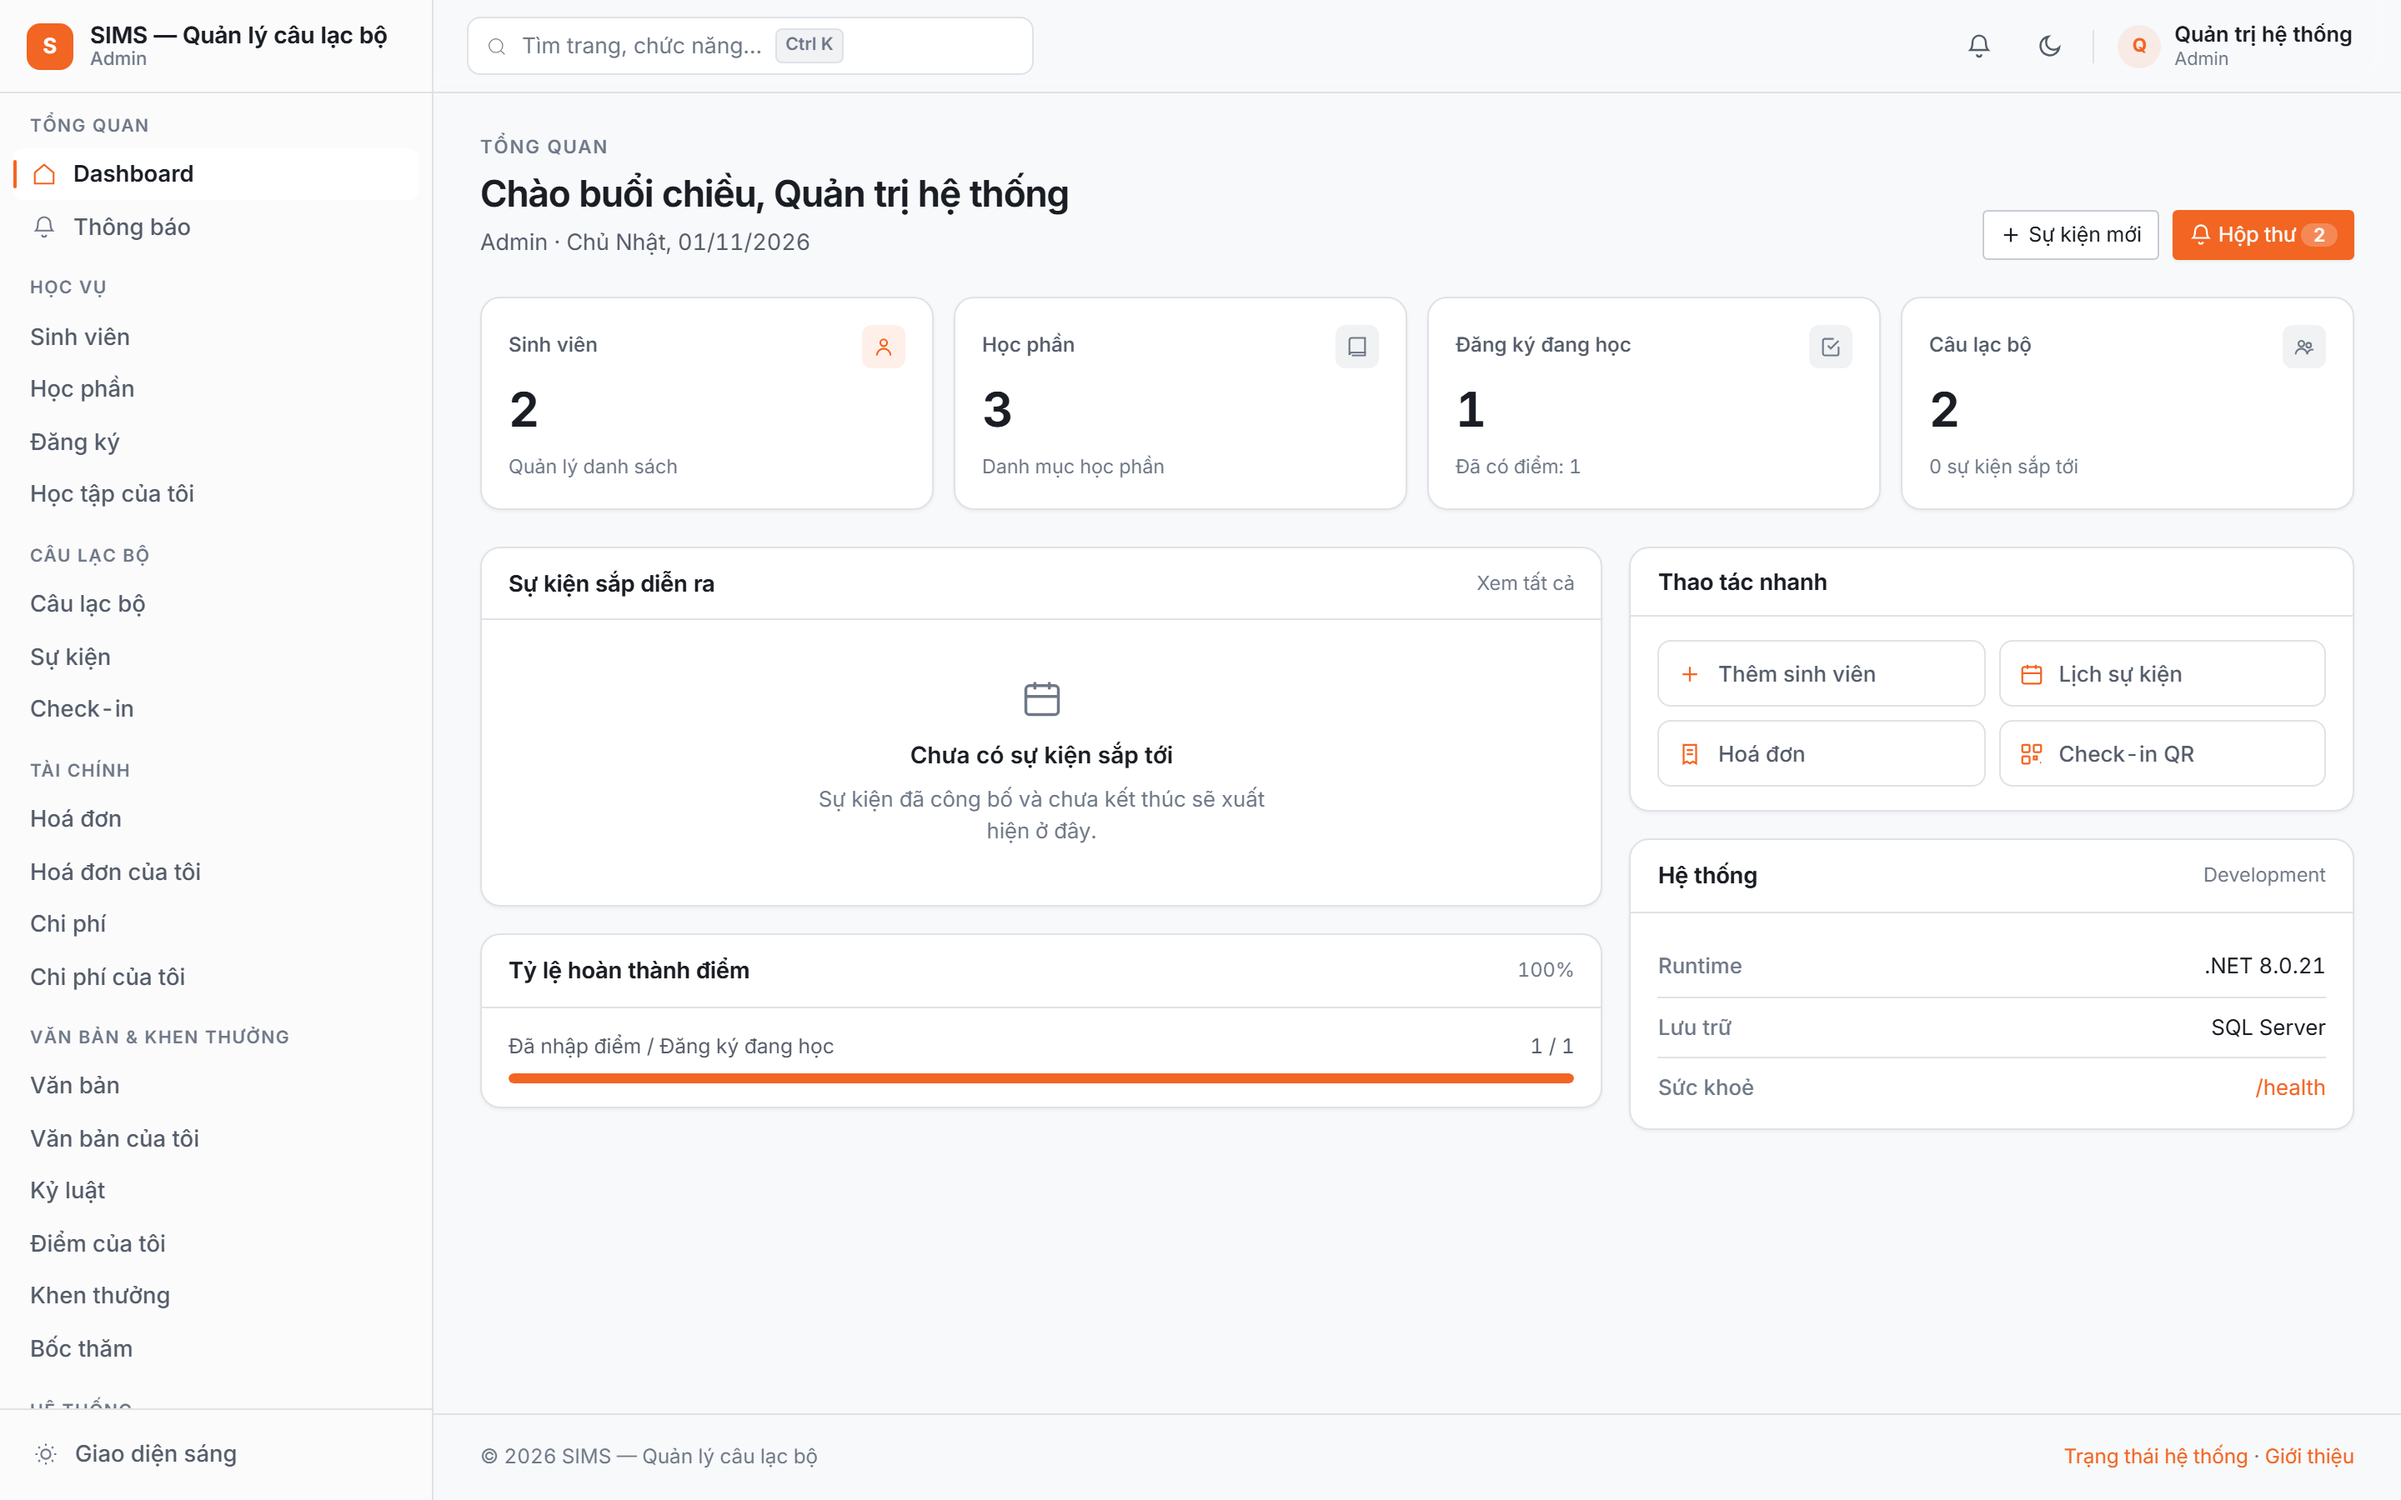
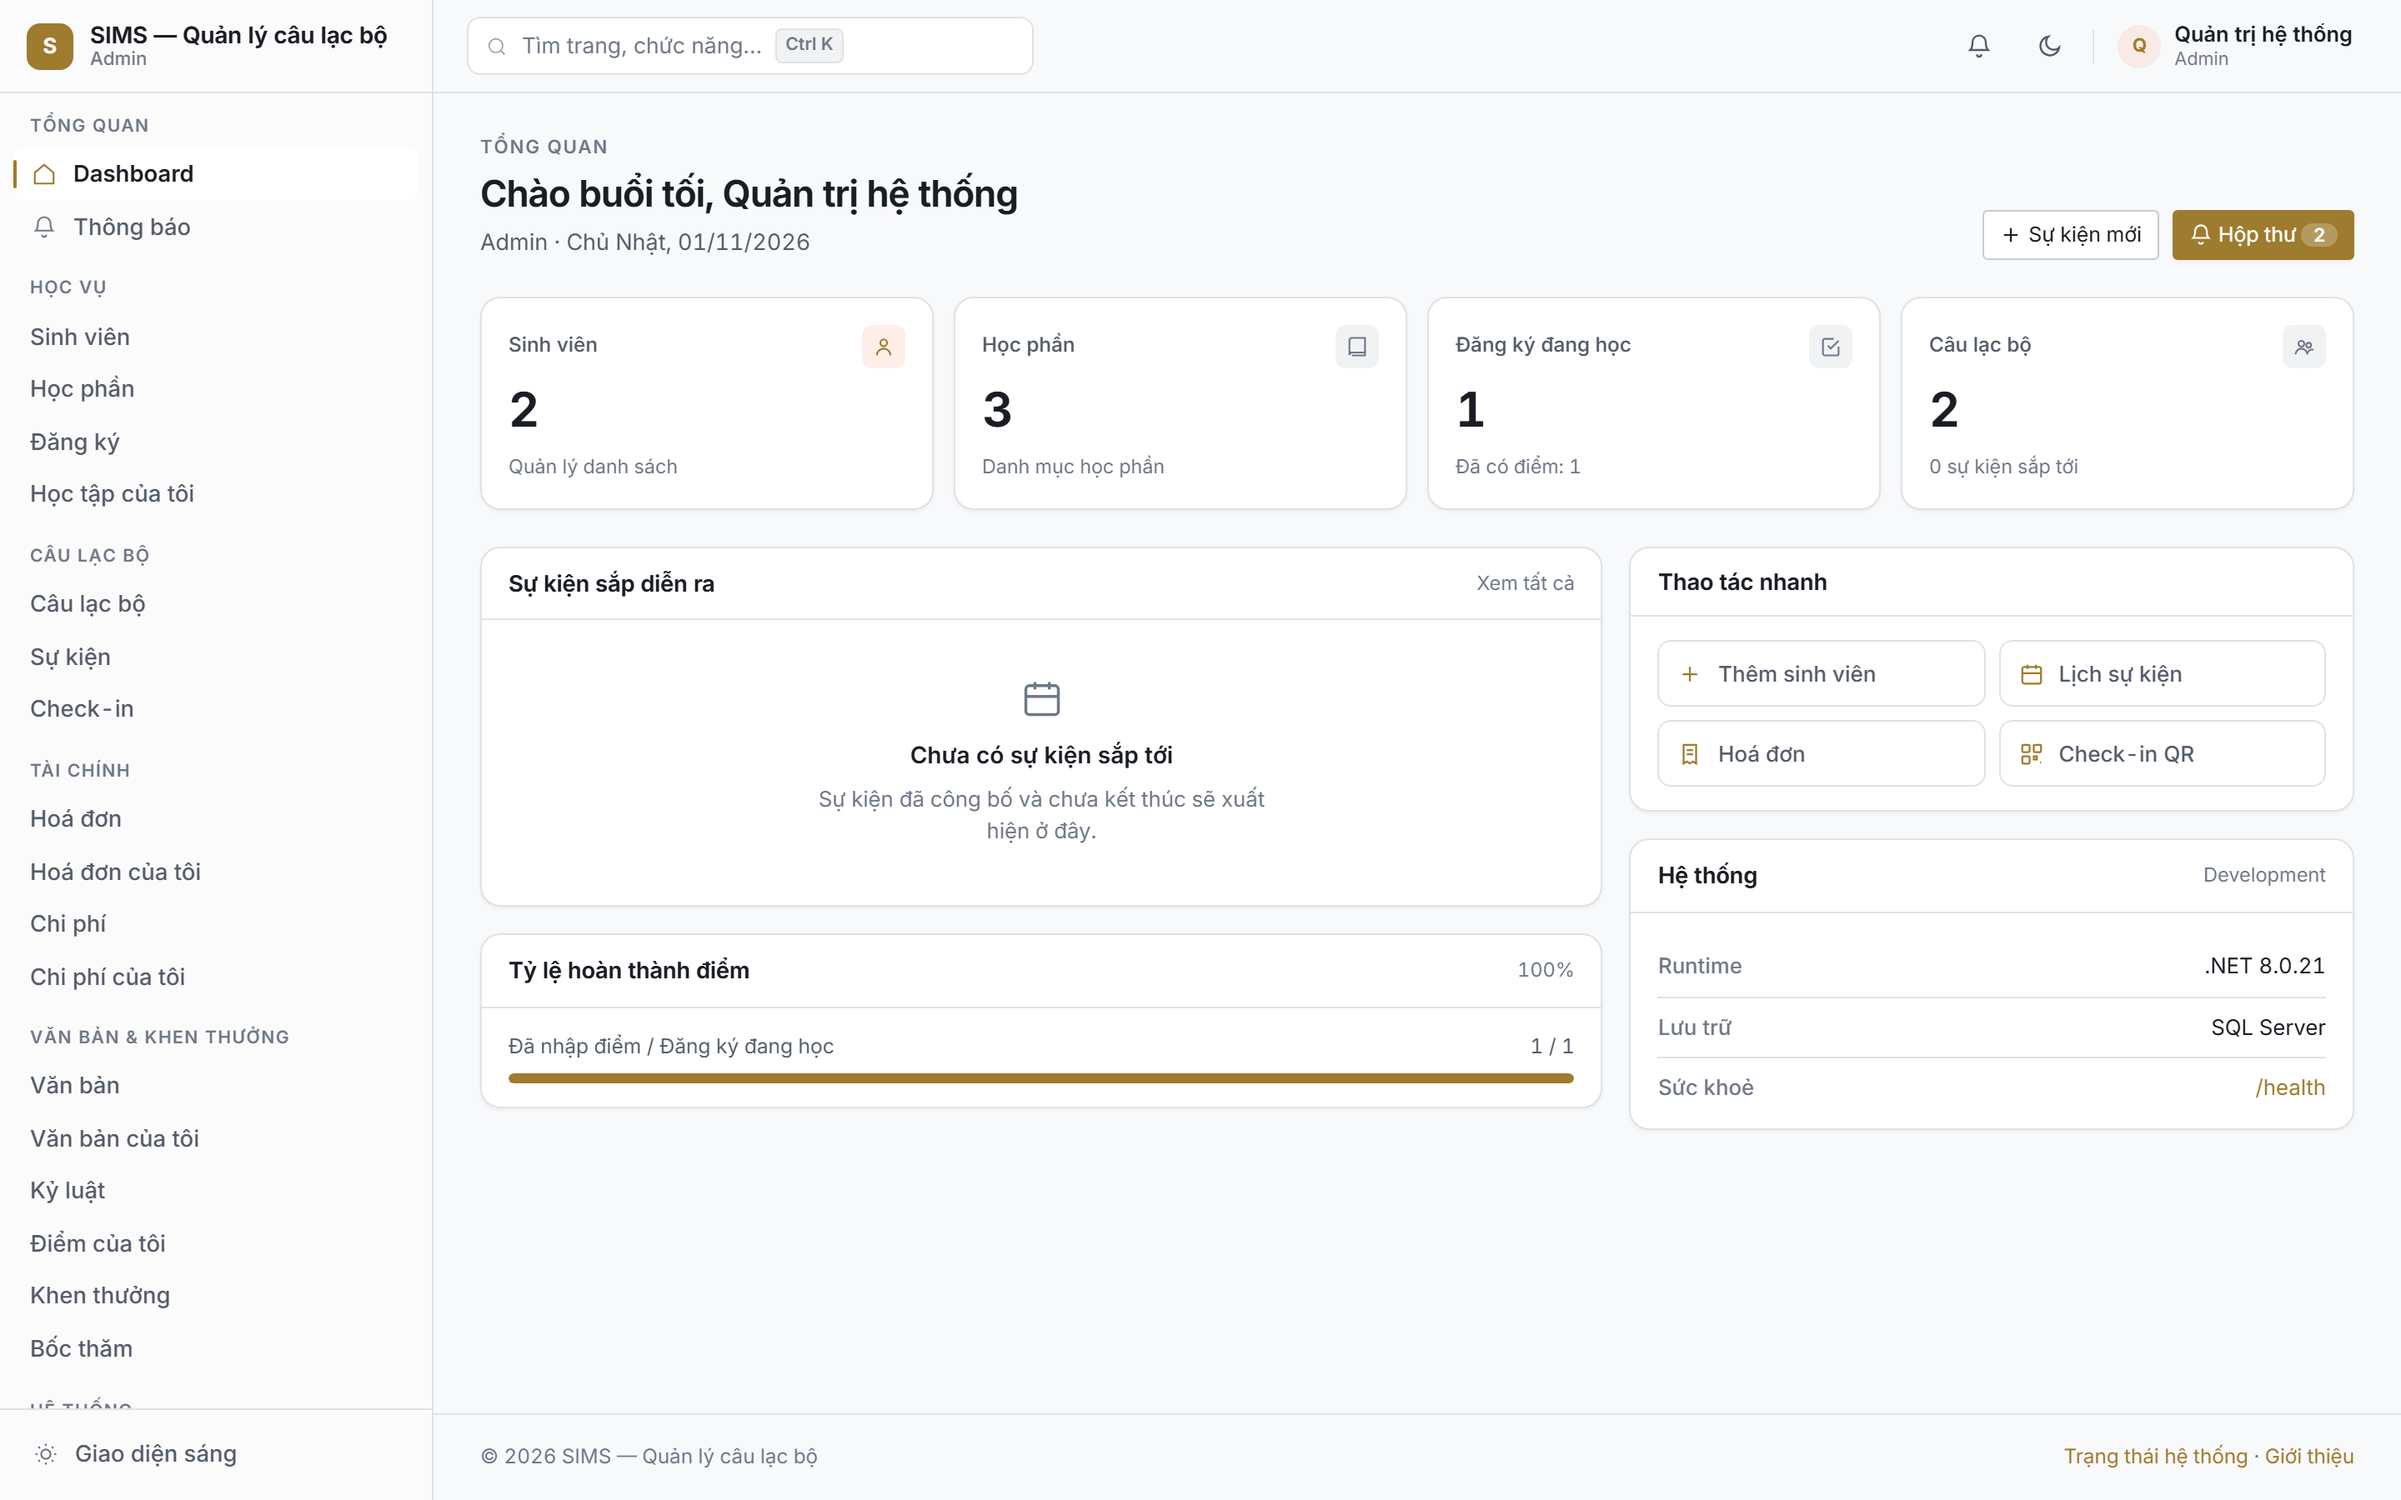
chore: doi ten database sang SIMS_APDP (tranh trung DB SIMS cua du an khac tren LocalDB)
- appsettings.json + SqlRowStoreTests: ConnectionString -> Database=SIMS_APDP
- README/porting-notes/test-results: cap nhat ten DB + ly do doi, kem bang chung
- preview-8080-dashboard.png: chup lai sau khi doi ten (van 200/405 test)

diff --git a/tests/SIMS.Tests/Infrastructure/SqlRowStoreTests.cs b/tests/SIMS.Tests/Infrastructure/SqlRowStoreTests.cs
@@ -10,7 +10,7 @@ namespace SIMS.Tests.Infrastructure;
 public sealed class SqlRowStoreTests
 {
     private const string DefaultConnection =
-        "Server=localhost;Database=SIMS;Integrated Security=True;TrustServerCertificate=True;Encrypt=False";
+        "Server=localhost;Database=SIMS_APDP;Integrated Security=True;TrustServerCertificate=True;Encrypt=False";
 
     private static string ConnectionString
         => Environment.GetEnvironmentVariable("SIMS_SQL_CONNECTION") ?? DefaultConnection;

diff --git a/README.md b/README.md
@@ -41,7 +41,7 @@ Dữ liệu nghiệp vụ nằm trong SQL Server; CSV chỉ còn là chế độ
 ```jsonc
 "Storage": {
   "Provider": "SqlServer",                       // hoặc "Csv" để quay lại file CSV
-  "ConnectionString": "Server=localhost;Database=SIMS;Integrated Security=True;TrustServerCertificate=True;Encrypt=False",
+  "ConnectionString": "Server=localhost;Database=SIMS_APDP;Integrated Security=True;TrustServerCertificate=True;Encrypt=False",
   "DataDirectory": "data"                        // tệp đính kèm + file mẫu import
 }
 ```
@@ -230,7 +230,7 @@ Runtime smoke | `/health` 200; login `faculty1`; `/Courses` có CS101/CS102; `/E
 | Smoke batch 10 | Khách `/` 200 thấy trang công khai (sự kiện "Ngày hội công nghệ", CLB01, chương trình bốc thăm); `/lucky/{slug}` đòi mã, nhập sai báo lỗi, nhập `123456` 302 → ẩn form, hiện mục người trúng; faculty `/LuckyDraws` 200, quay số 302 → "Người trúng thưởng (1)"; tạo thông báo 302; `student1` `/Notifications` 302 AccessDenied nhưng `/Notifications/Inbox` 200, đánh dấu tất cả → "0 chưa đọc"; admin `/Settings` 200, đổi tên site/theme dark/màu `#005577` → trang công khai cập nhật; faculty lưu cấu hình CLB 302; seed **34 file CSV** |
 | Smoke batch 11 | Tạo short URL 302 → khách `/s/{code}` 302 đúng đích; upload ảnh sự kiện 302 → hiện trong chi tiết; admin lưu khoá SePay → webhook 200, hoá đơn chuyển "Đã thanh toán"; `/Logs` 200 có `auth.login`; bật bảo trì → khách `/` 503 kèm thông báo, Admin `/` 200; tắt → khách `/` 200; seed **35 file CSV + 2 tệp** |
 | Smoke batch 12 | `/Students/Export?format=xlsx` 200 `application/vnd.openxmlformats-…sheet` 1817 B, zip có đúng 5 entry; import lại chính file → "Kết quả", 1 dòng dữ liệu; tạo sự kiện có toạ độ → chi tiết hiện "geofence 5 km"; check-in từ Hà Nội bị từ chối ("quá xa"), check-in trong 5 km thành công và lưu `distance_km`; lưu thông tin kế hoạch ("Ban truyền thông", "Cố vấn học tập") hiện ngay; `/EventPlans/Export?format=xlsx` 200 có `prepared_by` + giá trị đã lưu; seed **33 file CSV + 1 tệp** |
-| Smoke SQL Server | `Storage:Provider=SqlServer` với `localhost/SIMS`: app tự tạo schema `sims` (34 bảng sau seed), `/health` 200; login `admin`; 16 route chính 200; `POST /Students/Create` ghi `SV9001` → hiện trong `/Students` và có trong `[sims].[students]`; `/Checkin` + `/EventPlans` + `/Events/Calendar` 200; dữ liệu seed nằm đúng bảng (`users` 3, `students` 2, `permissions` 166, `audit` 36 bản ghi) |
+| Smoke SQL Server | `Storage:Provider=SqlServer` với `localhost/SIMS_APDP` (đổi tên từ `SIMS` 2026-11-01 để không trùng DB `SIMS` của dự án khác trên LocalDB): app tự tạo schema `sims` (34 bảng sau seed), `/health` 200; login `admin`; 16 route chính 200; `POST /Students/Create` ghi `SV9001` → hiện trong `/Students` và có trong `[sims].[students]`; `/Checkin` + `/EventPlans` + `/Events/Calendar` 200; dữ liệu seed nằm đúng bảng (`users` 3, `students` 2, `permissions` 166, `audit` 36 bản ghi) |
 | Smoke UI V1 | **26/26 trang module trả 200 và render `.app-shell`** khi đăng nhập `admin` (thêm `/health` 200 nhưng trả text thuần, không layout — đúng thiết kế); Playwright: `PALETTE accent=#f26522`, `FOCUS outline 2px solid rgb(242,101,34)`, `CMDK open=true results=["Sinh viên"]`, `MOBILE_SIDEBAR {open:true,expanded:"true"}`, `NO_RUNTIME_ERRORS` trên 18 lần chụp |
 | Smoke UI V2/V3 | 27/27 endpoint sống (`SMOKE 26/27`, dòng FAIL duy nhất là `/health` text thuần); Playwright V2/V3: `MOBILE_OVERFLOW_PX=0`, `SKIPLINK_AFTER_TRANSITION top=8 focus=true`, lọc `/Students` `rows=2 filtered=1 count="1 / 2 mục"`, `EVENTPLANS 200`, `NO_RUNTIME_ERRORS`, 44 ảnh `v2-*`/`v3-*` |
 
